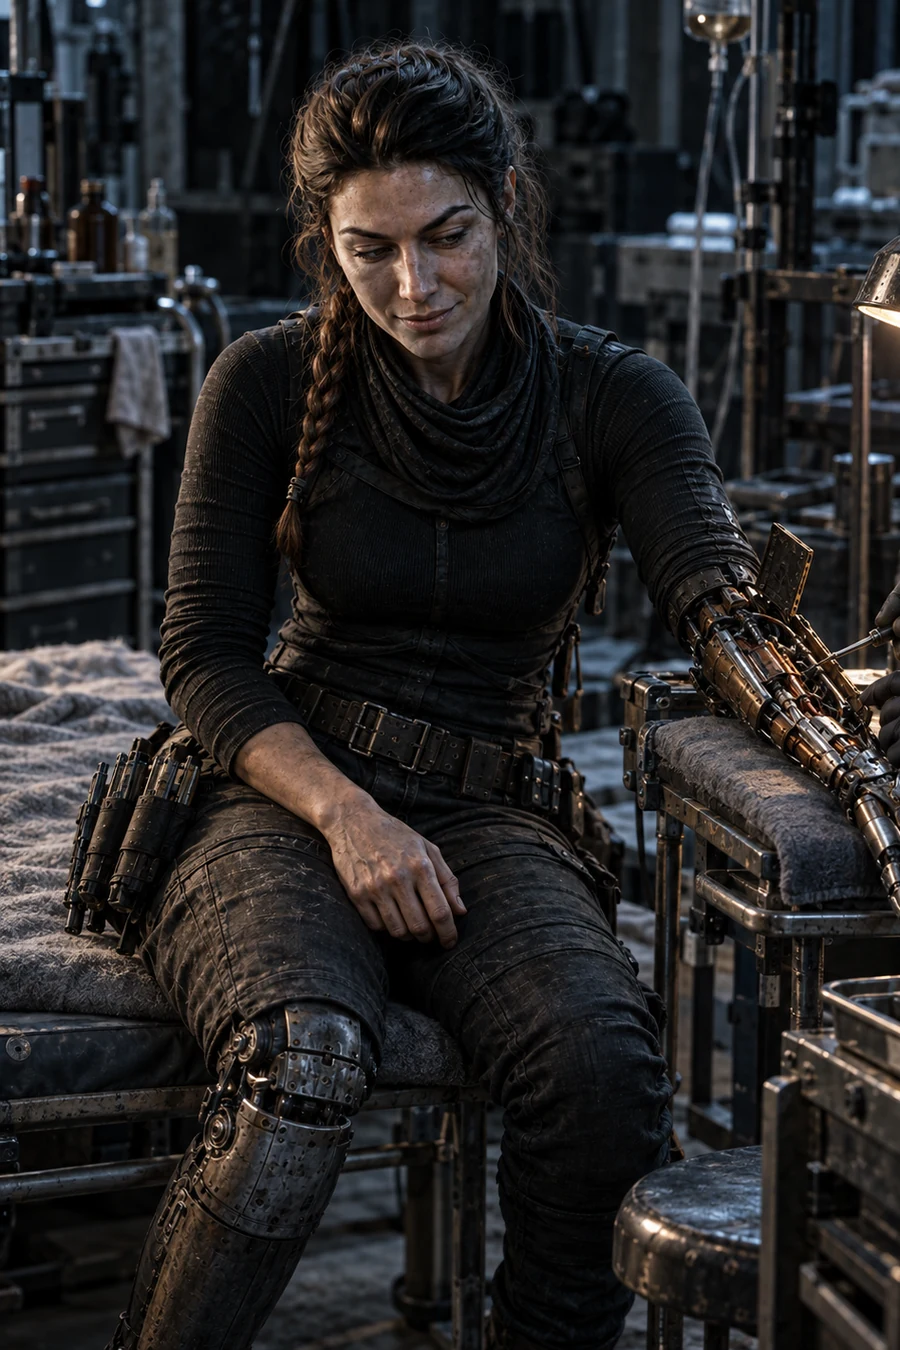
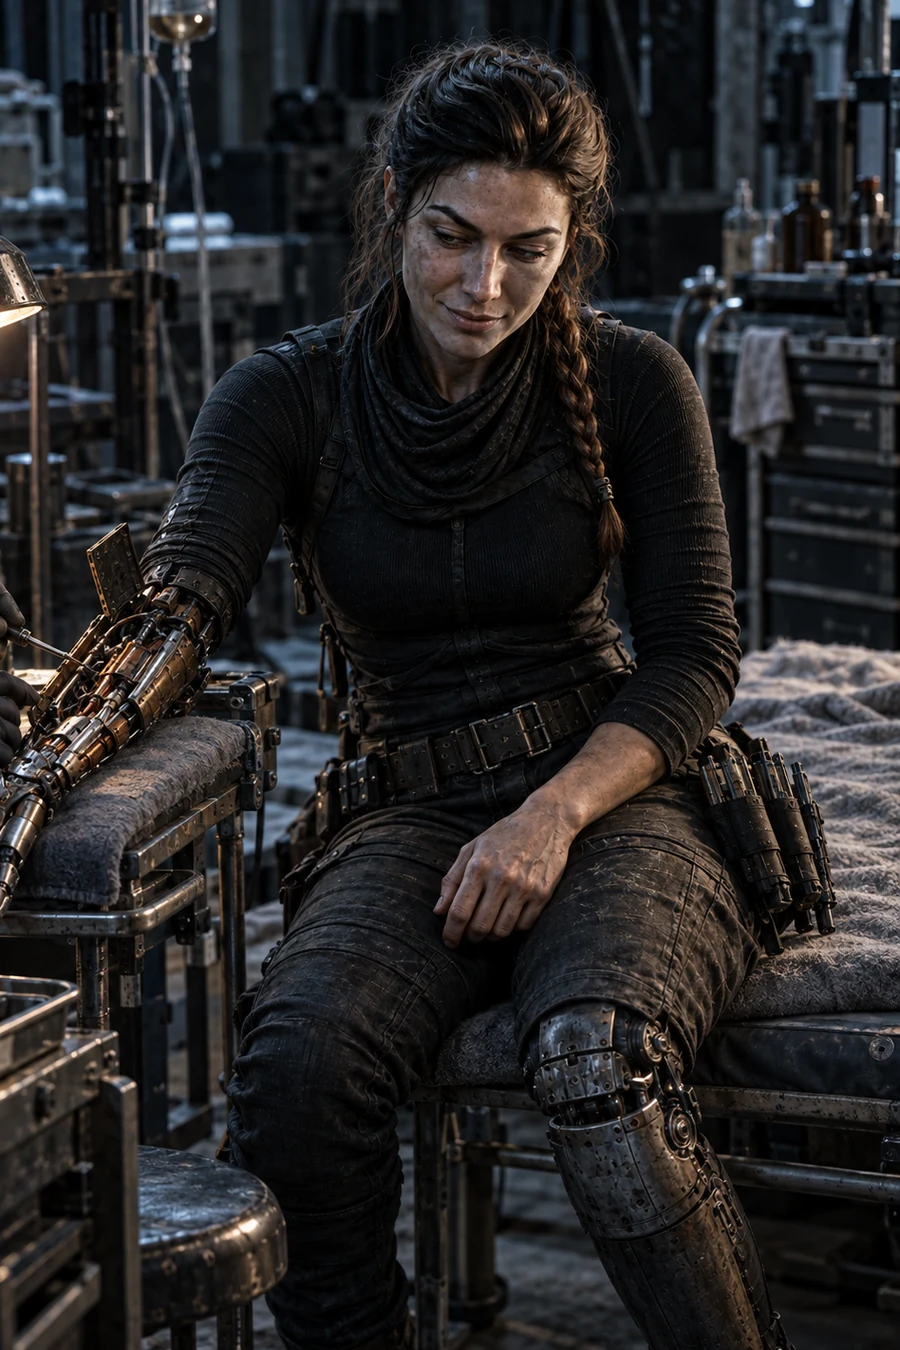
Neris publicada y Sava espejada
Neris entra en Gélidos con unlock 3. Es la de la enfermería, la que en el texto
le ajusta la prótesis a Sava.

La imagen de Sava se espejó: llegaba con la prótesis en el brazo izquierdo y el
manuscrito dice el derecho. La escena no tiene texto, así que invertirla no
rompe nada.

diff --git a/content.js b/content.js
@@ -43,6 +43,7 @@ window.BOOK_DATA = {
     { id: "elias", name: "Elías Sevrin", file: "assets/personajes/elias-sevrin.webp", w: 900, h: 1350, unlock: 2, section: "principales" },
     { id: "ansel", name: "Ansel Nahl", file: "assets/personajes/ansel-nahl.webp", w: 900, h: 1350, unlock: 2, section: "gelidos" },
     { id: "sava", name: "Sava", file: "assets/personajes/sava.webp", w: 900, h: 1350, unlock: 2, section: "gelidos" },
+    { id: "neris", name: "Neris", file: "assets/personajes/neris.webp", w: 900, h: 1350, unlock: 3, section: "gelidos" },
     { id: "jun", name: "Jun Arven", file: "assets/personajes/jun-arven.webp", w: 900, h: 1350, unlock: 4, section: "cam17" },
     { id: "tomas", name: "Tomas Eiden", file: "assets/personajes/tomas-eiden.webp", w: 900, h: 1350, unlock: 4, section: "cam17" },
     { id: "vera", name: "Vera Helion", file: "assets/personajes/vera-helion.webp", w: 900, h: 1350, unlock: 4, section: "cam17" },

diff --git a/sw.js b/sw.js
@@ -1,6 +1,6 @@
 // REGLA (heredada del Libro I): todo cambio a index.html, styles.css, content.js,
 // app.js o nieve.js exige subir SHELL_CACHE antes de publicar.
-const SHELL_CACHE = "el-ciclo-inmovil-libro2-shell-v40";
+const SHELL_CACHE = "el-ciclo-inmovil-libro2-shell-v41";
 // Mismo nombre que AUDIO_CACHE en app.js ("Guardar sin conexión"). Si no
 // coinciden, el activate de abajo borra los capitulos guardados. No subirlo sin
 // motivo: vacia lo que cada oyente guardo.
